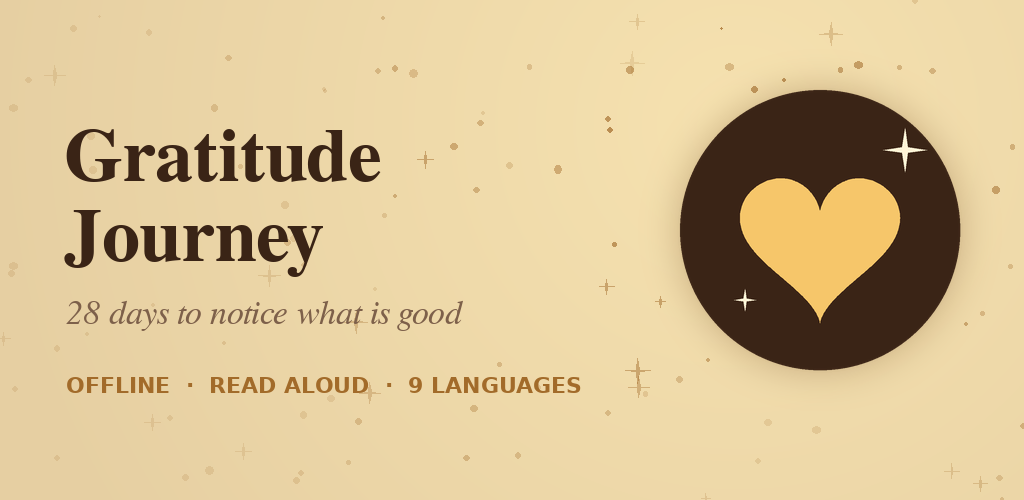
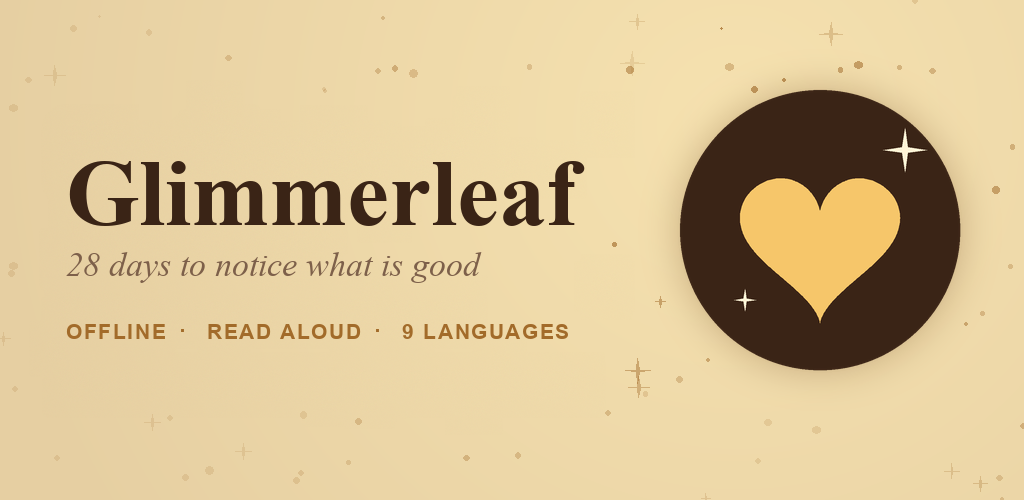
Rename app to Glimmerleaf, fix bugs found in testing, add redesign brief
Rename
- App name is now "Glimmerleaf" in all 9 languages (launcher, About, share text)
- Redraw the Play feature graphic with the new name
- Update README, PRIVACY.md and the Gradle project name
- The 28-day program keeps its name, "The 28-Day Gratitude Journey"

Bug fixes (found while testing on an Android 16 emulator)
- History: dividers stretched into a large empty box, hiding the day list
- Reminders: a slot within 30 s of a reschedule was skipped (now 5 s margin)
- Settings: changing the first reminder time now moves a pending unlock
- Contents: a resting next day showed "Today's practice"; now "Upcoming"
- Insights/History: "1 days" / "1 notes" now use singular strings
- Lint error blocked release builds: mark the pre-Android-13 back fallback
  as intended; boot receiver now checks the broadcast action

Other
- Credit link now opens https://sjpixels.com/
- Add design/chatgpt-redesign-prompt.md, the brief for the UI redesign

Changed region(s): [[0.0625, 0.24, 0.5938, 0.57], [0.0625, 0.6, 0.5625, 0.69], [0.0625, 0.75, 0.5625, 0.81]]

diff --git a/app/src/main/java/com/sjpixels/gratitude/MainActivity.kt b/app/src/main/java/com/sjpixels/gratitude/MainActivity.kt
@@ -1,5 +1,6 @@
 package com.sjpixels.gratitude
 
+import android.annotation.SuppressLint
 import android.app.Activity
 import android.app.AlertDialog
 import android.content.ActivityNotFoundException
@@ -67,7 +68,7 @@ class MainActivity : Activity() {
 
     companion object {
         const val EXTRA_OPEN_DAY = "open_day"
-        const val CREDIT_URL = "https://sj.pixels"
+        const val CREDIT_URL = "https://sjpixels.com/"
         private const val REQ_NOTIF = 11
     }
 
@@ -295,7 +296,7 @@ class MainActivity : Activity() {
                 @Suppress("DEPRECATION")
                 w.navigationBarColor = Color.TRANSPARENT
             }
-            if (Build.VERSION.SDK_INT >= 29) w.isNavigationBarContrastEnforced = false
+            w.isNavigationBarContrastEnforced = false
             val light = if (pal.dark) 0 else
                 WindowInsetsController.APPEARANCE_LIGHT_STATUS_BARS or WindowInsetsController.APPEARANCE_LIGHT_NAVIGATION_BARS
             w.insetsController?.setSystemBarsAppearance(
@@ -406,6 +407,8 @@ class MainActivity : Activity() {
         }
     }
 
+    /** Fallback for Android 12 and older. On 13+ back (including the predictive gesture) goes through OnBackInvokedCallback above. */
+    @SuppressLint("GestureBackNavigation")
     @Deprecated("Deprecated in Java")
     override fun onBackPressed() {
         if (!handleBack()) {

diff --git a/app/src/main/java/com/sjpixels/gratitude/Reminders.kt b/app/src/main/java/com/sjpixels/gratitude/Reminders.kt
@@ -40,7 +40,8 @@ object Reminders {
         if (!p.remindersOn) return null
         val st = Journey.state(ctx)
         if (st.cycle == null || st.current == null) return null
-        val notBefore = maxOf(now + 30_000L, st.unlockAt)
+        // A small margin so a reminder that just fired doesn't reschedule itself, without skipping a slot seconds away.
+        val notBefore = maxOf(now + 5_000L, st.unlockAt)
         val zone = ZoneId.systemDefault()
         val startDate = Instant.ofEpochMilli(notBefore).atZone(zone).toLocalDate()
         val sl = slots(p)
@@ -94,7 +95,16 @@ class ReminderReceiver : BroadcastReceiver() {
 }
 
 class BootReceiver : BroadcastReceiver() {
+    private val actions = setOf(
+        Intent.ACTION_BOOT_COMPLETED,
+        Intent.ACTION_MY_PACKAGE_REPLACED,
+        Intent.ACTION_TIME_CHANGED,
+        Intent.ACTION_TIMEZONE_CHANGED,
+        AlarmManager.ACTION_SCHEDULE_EXACT_ALARM_PERMISSION_STATE_CHANGED,
+    )
+
     override fun onReceive(context: Context, intent: Intent) {
+        if (intent.action !in actions) return
         Notifier.ensureChannel(context)
         Reminders.reschedule(context)
     }

diff --git a/app/src/main/java/com/sjpixels/gratitude/HistoryScreen.kt b/app/src/main/java/com/sjpixels/gratitude/HistoryScreen.kt
@@ -94,8 +94,9 @@ class HistoryScreen(act: MainActivity) : Screen(act) {
                         addView(DayBadge(act, p, day, DayStatus.DONE, 32), ui.lp(WRAP, WRAP, r = 12))
                         addView(ui.col {
                             addView(ui.text(c.t("day_n", "n" to day) + " · " + c.day(day).title, 15f, p.ink, Fonts.sansMedium))
-                            addView(ui.muted(c.t("sessions_n", "n" to daySessions.size) + "  ·  " +
-                                c.t("notes_count_n", "n" to daySessions.sumOf { it.noteCount }), 12f), ui.lp(t = 2))
+                            val notes = daySessions.sumOf { it.noteCount }
+                            val notesLabel = if (notes == 1) c.t("notes_count_1") else c.t("notes_count_n", "n" to notes)
+                            addView(ui.muted(c.t("sessions_n", "n" to daySessions.size) + "  ·  " + notesLabel, 12f), ui.lp(t = 2))
                         }, ui.lp(0, WRAP, 1f))
                         addView(ui.iconButton(Icon.TRASH, c.t("delete"), p.muted, 36, 17) {
                             act.confirm(c.t("delete_day_q", "n" to day), c.t("delete"), danger = true) {

diff --git a/app/src/main/java/com/sjpixels/gratitude/ContentsScreen.kt b/app/src/main/java/com/sjpixels/gratitude/ContentsScreen.kt
@@ -45,6 +45,7 @@ class ContentsScreen(act: MainActivity) : Screen(act) {
         page.addView(rCard, ui.lp())
 
         // weeks
+        val resting = st.isResting()
         for (w in 0 until 4) {
             page.addView(ui.eyebrow(c.t("week_n", "n" to w + 1)), ui.lp(t = 28))
             page.addView(ui.h2(c.weeks.getOrElse(w) { "" }), ui.lp(t = 4, b = 12))
@@ -63,6 +64,8 @@ class ContentsScreen(act: MainActivity) : Screen(act) {
                     }, ui.lp(0, WRAP, 1f))
                     val n = st.counts[day]
                     when {
+                        // While resting until tomorrow, the next practice isn't "today's" yet.
+                        status == DayStatus.CURRENT && resting -> addView(ui.chip(c.t("status_upcoming")), ui.lp(WRAP, WRAP, l = 6))
                         status == DayStatus.CURRENT -> addView(ui.chip(c.t("status_current"), p.accent, p.onAccent), ui.lp(WRAP, WRAP, l = 6))
                         n > 1 -> addView(ui.chip("×$n"), ui.lp(WRAP, WRAP, l = 6))
                         else -> addView(IconView(act, Icon.CHEVRON, p.muted, 18), ui.lp(ui.dp(18), ui.dp(18), l = 6))

diff --git a/app/src/main/java/com/sjpixels/gratitude/Kit.kt b/app/src/main/java/com/sjpixels/gratitude/Kit.kt
@@ -179,9 +179,17 @@ class Ui(val ctx: Context, val p: Pal, val c: ContentPack) {
 
     fun space(h: Int): View = View(ctx).apply { layoutParams = LinearLayout.LayoutParams(1, dp(h)) }
 
-    fun divider(): View = View(ctx).apply {
-        setBackgroundColor(p.line)
-        layoutParams = LinearLayout.LayoutParams(MATCH, maxOf(1, dp(1) / 2 + 1))
+    /** A hairline. Its height is fixed in onMeasure, so callers can pass any LayoutParams (e.g. lp(t = 12)) for margins. */
+    fun divider(): View {
+        val h = maxOf(1, dp(1) / 2 + 1)
+        return object : View(ctx) {
+            override fun onMeasure(widthMeasureSpec: Int, heightMeasureSpec: Int) {
+                setMeasuredDimension(getDefaultSize(suggestedMinimumWidth, widthMeasureSpec), h)
+            }
+        }.apply {
+            setBackgroundColor(p.line)
+            layoutParams = LinearLayout.LayoutParams(MATCH, h)
+        }
     }
 
     fun scroll(content: View): ScrollView = ScrollView(ctx).apply {

diff --git a/app/src/main/java/com/sjpixels/gratitude/InsightsScreen.kt b/app/src/main/java/com/sjpixels/gratitude/InsightsScreen.kt
@@ -80,8 +80,8 @@ class InsightsScreen(act: MainActivity) : Screen(act) {
         // ---------------------------------------------------------- all time tiles
         page.addView(ui.sectionTitle(c.t("all_time")))
         val tiles = listOf(
-            Triple(Icon.SPARK, c.t("current_streak"), "$cur ${c.t("days_short")}"),
-            Triple(Icon.HEART, c.t("best_streak"), "$best ${c.t("days_short")}"),
+            Triple(Icon.SPARK, c.t("current_streak"), "$cur ${c.t(if (cur == 1) "day_short" else "days_short")}"),
+            Triple(Icon.HEART, c.t("best_streak"), "$best ${c.t(if (best == 1) "day_short" else "days_short")}"),
             Triple(Icon.CHECK, c.t("total_sessions"), all.size.toString()),
             Triple(Icon.BOOK, c.t("notes_written"), all.sumOf { it.noteCount }.toString()),
         )

diff --git a/app/src/main/java/com/sjpixels/gratitude/Journey.kt b/app/src/main/java/com/sjpixels/gratitude/Journey.kt
@@ -114,5 +114,14 @@ object Journey {
             .atZone(ZoneId.systemDefault()).toInstant().toEpochMilli()
     }
 
+    /** Moves a pending unlock to the new first-reminder time on the same date, after the user changes that time. */
+    fun realignUnlock(prefs: Prefs) {
+        val at = prefs.unlockAt
+        if (at <= System.currentTimeMillis()) return
+        val m = prefs.reminderStartMin
+        prefs.unlockAt = localDate(at).atTime(m / 60, m % 60)
+            .atZone(ZoneId.systemDefault()).toInstant().toEpochMilli()
+    }
+
     fun localDate(ms: Long): LocalDate = Instant.ofEpochMilli(ms).atZone(ZoneId.systemDefault()).toLocalDate()
 }

diff --git a/app/src/main/java/com/sjpixels/gratitude/SettingsScreen.kt b/app/src/main/java/com/sjpixels/gratitude/SettingsScreen.kt
@@ -137,6 +137,7 @@ class SettingsScreen(act: MainActivity) : Screen(act) {
                 pickTime(prefs.reminderStartMin) { m ->
                     prefs.reminderStartMin = m
                     if (prefs.reminderEndMin < m) prefs.reminderEndMin = m
+                    Journey.realignUnlock(prefs)
                 }
             })
             rem.addView(valueRow(ui, c.t("reminder_end"), ui.minutesLabel(prefs.reminderEndMin), null) {

diff --git a/design/chatgpt-redesign-prompt.md b/design/chatgpt-redesign-prompt.md
@@ -1,0 +1,98 @@
+You are a senior mobile product designer and brand designer. Redesign the complete UI of an Android app I am publishing on Google Play and build its UI kit and brand assets. I have attached two reference images: the new logo and an example promotional image. Work through the numbered deliverables at the end, in order.
+
+THE APP
+- Name: Glimmerleaf. Tagline: "28 days to notice what is good". Marketing headline (from the attached example): "What did you notice today?"
+- What it does: a fully offline 28-day gratitude practice called "The 28-Day Gratitude Journey". Each day has one practice: a one-paragraph intro, exactly 4 steps and an affirmation. There is also a morning ritual ("Morning: Five Thanks") and an evening ritual ("Evening: The Golden Moment"). Users can have any practice read aloud by the phone's own offline voice, write in a guided journal and pick a mood. Reminders arrive every 3 hours from 9:00 to 21:00 until the day's practice is done. Users can see their history and analytics. There are no accounts, no internet and no ads.
+- Journey rules the design must show clearly: days run in order; after finishing a day, the next one "rests" until the next morning (the user can still open it early); any day can be repeated; after all 28 the journey is archived and a new one can start; the journey can be reset.
+- Platform: native Android phones (Android 8 to 16), portrait, edge-to-edge (the app draws behind the status and navigation bars). Design at 360×800dp and check it still works at 320dp wide and with the system font size at 200%.
+- Languages: English, Hindi, German, Spanish, Japanese, Russian, French, Chinese and Korean. None are right-to-left. Layouts must handle long German and Russian text and Devanagari, Chinese, Japanese and Korean scripts without clipping. Test with these real titles:
+  - Longest English day title: "The People Who Keep Life Running"
+  - Longest German day title: "Die Menschen, die das Leben am Laufen halten"
+  - A Russian button label that wraps: "Открыть практику"
+- Credit: every screen shows "Created with Love by sj.pixels" in small, readable text at the top centre. "sj.pixels" is a link to https://sjpixels.com/.
+
+BRAND: USE THE ATTACHED LOGO
+- Logo (attached): a golden open book with a single leaf sprouting from its spine and two small four-point sparkles, on a deep brown rounded square, with a "Glimmerleaf" serif wordmark. Keep this concept and its colours. Refine it, don't replace it: clean up the curves, balance the sparkles and make the leaf readable at 24dp.
+- Brand colours sampled from the logo: deep brown #321209, golden page #FEC74E, page edge #EAA114, leaf #FEC13A, cream #FDF4E5. The attached example uses a dark brown button #441E0D, a gold chip #F8CD6D, a parchment screen #F5E2CA and ink #2F140A.
+- Visual direction from the attached example: warm morning light, parchment, sepia ink, an elegant high-contrast serif for headings, a clean sans-serif for body text, a dark-brown pill primary button, a soft gold chip for the day label, and small single-colour line illustrations (like the coffee cup) that sit inside the app. The sunlit photography (cup, window, flowers) is for marketing images only, never inside the app.
+- Mood: calm, warm and a little magical, like a beautiful personal journal rather than a productivity tool. Use generous spacing, rounded cards, hairline borders or gentle shadows, and tiny scattered sparkles.
+- All artwork must be original. Do not imitate any existing book cover, book title, author's branding or company logo. Do not show real people.
+
+HOW THE APP IS BUILT (design within these limits)
+- Native Android Views written in Kotlin. There is no Jetpack Compose, no Material Components library and no third-party libraries. Every component is drawn in code. Gradients, glows, sparkles, the progress ring, charts and confetti are drawn on a Canvas, and icons are vector paths. So:
+  - Specify every effect numerically (gradient stops and angles, glow radius and opacity, shadow elevation in dp, corner radius in dp, sparkle count and size range), not as "a soft glow".
+  - Keep animations simple and specify them: duration in ms, easing and what changes (alpha, scale, translation).
+  - No blur-behind/frosted glass, no video and no Lottie files.
+- Fonts: the app currently uses the system serif and sans-serif. You may pick ONE free, open-licence serif family from Google Fonts to bundle for headings (name it and the weights). Keep the system sans-serif for body text. Bundled Latin fonts don't cover Devanagari, Chinese, Japanese or Korean, so the app falls back to the system Noto fonts for those. Say how headings should look in those scripts (size and weight adjustments) so the design still holds.
+- Give all sizes in dp on a 4dp grid and all text sizes in sp, with line height. Touch targets must be at least 48dp. Text must meet WCAG AA contrast (4.5:1 body, 3:1 large text and icons) in day and night for every theme. List the contrast ratio of ink, muted and on-accent for each theme.
+- Icons: simple line icons, 2px stroke, round caps and joins, on a 24dp grid with 2dp padding. The set: home, book, history, chart, gear, play, pause, stop, previous, next, back, chevron-right, chevron-down, bell, sun, moon, heart, sparkle, share, trash, check, lock, speaker. Deliver each as SVG code using only <path> elements with stroke (no fills, masks, filters or text), so I can convert them to Android VectorDrawables.
+- In-app illustrations: single-colour line art in the same style as the coffee cup in the example, tinted with a theme colour, delivered as SVG code using stroke paths only. Keep the set small: one per week (Noticing, Connection, Body/Home/World, Transformation), one for each ritual (sunrise, golden evening), and the empty states (no journey yet, no history, no insights). That's 9 illustrations, not 28.
+- Mood picker: 5 emoji, 😔 😐 🙂 😊 🤩. Design the selected and unselected states around the emoji; don't replace them with custom faces.
+
+7 COLOUR THEMES (each with a day and a night version)
+Keep each hue but refine freely. Golden Parchment is the default and must match the new logo's browns and golds.
+1. Golden Parchment (default): day #F4E9D0 / #A26B2A; night #1A120D / #E6B866. Move toward the logo: deep brown #321209 for the primary button and ink, gold #FEC74E for chips and glow.
+2. Wax Seal: day #F6EADF / #9B2B2C; night #1B0F10 / #E9857A
+3. Amber Glow: day #F8EBD7 / #BF5E17; night #1C1209 / #F4A757
+4. Rose Quartz: day #F7EAE7 / #A44B68; night #1B1215 / #E99CB3
+5. Twilight Violet: day #F1EBF3 / #6B4A9C; night #15111C / #BBA2EA
+6. Sapphire Dusk: day #EBF0F4 / #2D5D8D; night #0E141B / #8FBAEA
+7. Emerald Sage: day #EDF1E7 / #3D7250; night #0F160F / #90CC9C
+For every theme in both modes, give exactly these tokens (they match the code): bg, bg2 (background gradient end), surface (cards), surfaceAlt (inputs, inner panels), ink (main text), muted (secondary text), accent, onAccent (text on accent), accentSoft (selected pill, soft fills), line (hairline borders), glow (sparkles and highlights) and danger. If the new style needs more (for example a separate "primary button" colour, as in the example, where it's dark brown rather than the accent), add them as clearly named extra tokens and explain where they're used.
+
+GLOBAL LAYOUT
+- Top bar, 56dp tall, drawn below the status bar. Left: a back arrow on inner pages, or the small logo mark on the main tabs. Centre: the credit line. Right: a day/night toggle, an animated pill switch (about 56×32dp) whose knob shows a sun or a moon.
+- Bottom navigation with 5 tabs: Today, Contents, History, Insights, Settings. Each has an icon and a label, and the selected tab has a soft pill behind the icon. It sits above the system navigation bar and hides while the keyboard is open. Labels must fit "Einstellungen" (German) and "Статистика" (Russian) at 11sp.
+- Pages scroll vertically, with 20dp side margins and 28dp bottom padding.
+
+SCREENS (design every state listed; use these real strings)
+1. Today
+   a. Not started: date line ("Friday, November 20, 2026") and greeting (Good morning / Good afternoon / Good evening). A hero card: eyebrow "THE 28-DAY GRATITUDE JOURNEY", title "Begin your 28-day gratitude journey", body "One short practice a day. Gentle reminders every few hours until it is done. Your notes never leave this phone." Buttons: "Start the journey" (primary) and "Browse the practices" (ghost).
+   b. In progress (the hero state in the attached example): eyebrow "DAY 3 OF 28 · NOTICING", title "Small Wins", theme line "Celebrate what went right.", the week's line illustration, a progress bar labelled "2 of 28 complete", and "Open practice" (primary) and "Listen" (secondary) buttons. Below it: a bell icon with "Next reminder today at 12:00 PM"; a "Week 1 · Noticing" strip of 7 day badges (done = filled with a tick, current = glowing ring, upcoming = outline); and "Daily rituals" with two cards, Morning: Five Thanks ("Every morning") and Evening: The Golden Moment ("Every night").
+   c. Resting (today's practice is done): "Today's practice is complete", "Day 4 unlocks tomorrow at 9:00 AM", a preview of Day 4's title and a "Begin it now" button.
+   d. Journey complete: a celebratory card with "You have completed the whole 28-day journey!" and a "Start a new journey" button.
+2. Contents: the title "The 28-Day Gratitude Journey", the subtitle "Four weeks of small daily practices that train your heart to notice what is good.", an overall progress bar ("1 done · 27 left"), a "Daily rituals" card with 2 rows, then Weeks 1 to 4 (Noticing; Connection; Body, Home & World; Transformation) with 7 rows each. Each row has a day badge, the title, a one-line theme and an optional chip: "Today's practice" (accent), "Upcoming" (soft, when the next day is resting) or "×2" for a repeated practice.
+3. Practice page (the most important screen):
+   - Eyebrow "DAY 3 OF 28 · NOTICING", a large serif title, an italic theme line and a status chip: "✓ Completed ×2", "Today's practice", "Upcoming" or "Day 4 unlocks tomorrow at 9:00 AM".
+   - An optional banner for days ahead of schedule: "This practice is ahead of your schedule. You can still do it now; your journey keeps its order."
+   - A Listen card: a 56dp round play/pause button, previous / stop / next controls, a status line such as "English · Female", and a "Reading aloud…" state. The paragraph being read gets a soft glow highlight, and the page scrolls to keep it in view.
+   - The intro paragraph, then "The practice" with 4 numbered step cards, then "Carry this with you": the affirmation in a glowing quote card with a large opening quote mark.
+   - "Your journal" with a small "Draft saved" label. The number of journal sections changes from day to day, so design the pattern rather than one fixed layout: each day has 1 or 2 prompts, each with 1, 3, 5 or 7 numbered single-line inputs or a single multi-line box, and the morning list "This morning's five thanks" (5 numbered lines) is always added at the end. Show Day 3: "Small wins and who or what helped" (5 lines) plus the five thanks. Then a multi-line Reflection box (hint "What did you notice? How do you feel?"), the mood picker ("How do you feel now?") and a full-width "Complete practice" button, which reads "Save another session" if the day is already done.
+   - "Your entries for this practice": cards showing date and time, the mood emoji, the notes grouped by prompt, and a delete icon. Also design the empty state ("No entries yet").
+4. Ritual page (Morning or Evening): title, when to do it, the ritual text, its line illustration and a Listen card.
+5. History: one card per journey, newest first: "Journey 2" with a status chip ("In progress", "Completed" or "Reset"), "Started Nov 20, 2026 · Ended Dec 18, 2026", a progress bar, "12 done · 16 left", "Sessions: 15", and share and delete icons. Show it collapsed and expanded. Expanded shows one row per completed day (badge, "Day 1 · Arrive Where You Are", "Sessions: 1 · 3 notes", delete and expand), and an expanded day shows its entry cards. Include the empty state.
+6. Insights:
+   - A "This journey · Journey 1" card with an animated progress ring (12 / 28, "43%"), stats (Sessions, Notes written) and a "Sessions per practice" bar chart with 28 thin bars and axis labels 1, 7, 14, 21, 28. The current day's bar is highlighted.
+   - "All time" tiles in a 2×2 grid: current streak, best streak ("1 day" / "12 days"), sessions and notes written; plus journeys completed.
+   - A 12-week activity grid (like a contribution heatmap) and a "Mood after practice" line chart.
+   - An empty state.
+7. Settings:
+   - Appearance: a theme picker (7 round swatches in rows of 4 and 3, with names; the selected one has a ring) and a "Night mode" switch.
+   - Language: a row showing the current language, which opens a picker listing the 9 languages in their own scripts (English, हिन्दी, Deutsch, Español, 日本語, Русский, Français, 中文, 한국어).
+   - Reading voice: a Female / Male segmented control, a "Specific voice" row, a reading speed slider (0.50× to 1.50×, value shown), and "Test voice" and "Install or manage voices" buttons.
+   - Reminders: an on/off switch, "First reminder" 9:00 AM and "Last reminder" 9:00 PM rows, "Repeat every" 1 h / 2 h / 3 h / 4 h / 6 h (segmented control), an "Exact reminder times" row showing "Not allowed. Tap to allow" or "Allowed", and "Next practice unlocks": "Next morning" / "Right after completing" (segmented control).
+   - Journey: an explanation and a "Reset journey" button in the danger style.
+   - About: "Glimmerleaf", the version ("Version 1.0.0"), a one-line note and the credit line with a heart icon.
+8. Celebration overlay after completing a practice: a dimmed background, a confetti burst (in theme colours), and a card with a big word (one of "Hooray!", "Yippee!", "Congratulations!", "Wonderful!", "Well done!"), "You completed Day 3: Small Wins", the day's affirmation in italics and a "Continue" button. Also design a bigger variant for finishing all 28 days.
+9. Dialogs and system UI: confirm delete, reset journey (danger), choose language, choose voice (a list with radio buttons that plays a preview when tapped), the time picker styling, a toast, and the reminder notification (title "Day 3 · Small Wins", text "Your gratitude practice is waiting. A few minutes is all it takes.", using the monochrome notification icon tinted with the accent).
+
+BRAND ASSETS (Google Play's exact requirements)
+A. Logo: a vector redraw of the attached logo as SVG code. Provide the symbol alone, a horizontal lockup (symbol left, wordmark right, as in the example) and a stacked lockup (symbol above the wordmark, as in the attached logo), each for light and dark backgrounds. Name the wordmark font, or draw it as paths.
+B. App icon (Android adaptive icon): a 108×108dp canvas as two separate layers. The background layer is a full-bleed deep brown (#321209, optionally with a subtle radial glow), with no rounded square drawn in. The foreground layer is the book, leaf and sparkles only, on a transparent background, with all key artwork inside the central 66dp circle so no launcher mask crops it. Also a single-colour monochrome foreground for Android 13+ themed icons. Deliver all three as SVG code on a 108×108 viewBox. Separately, a 512×512 Play Store icon: 32-bit PNG, full square, no rounded corners or drop shadow baked in (Play applies its own mask), under 1 MB.
+C. Notification icon: a solid white silhouette of the book and leaf on a transparent background, 24×24dp, legible at that size. SVG code.
+D. Feature graphic: exactly 1024×500, JPEG or 24-bit PNG with no transparency. Show the logo, "Glimmerleaf", "28 days to notice what is good" and "Offline · Read aloud · 9 languages". Keep all text and the logo inside the central safe area, at least 64px from every edge, because Play can crop and overlay a play button.
+E. Promo posters in the style of the attached example: 1080×1920 portrait (social media and WhatsApp status) and 1080×1080 square.
+F. Play Store phone screenshots: 6 images at 1080×1920. Don't use 1080×2400: Play rejects screenshots whose long side is more than twice the short side. Each shows one real screen in a phone frame with a short headline above it: "One gentle practice a day", "Listen in your language", "Write what you're grateful for", "Reminders until it's done", "See your progress", "7 themes, day and night".
+
+RULES FOR GENERATED IMAGES
+- Image generators often misspell text. Use the exact strings given here, keep on-image text short, and check the spelling of "Glimmerleaf" in every image.
+- Mockups must show only features that exist in this brief. Don't invent extra tabs, sign-in, social sharing feeds, subscriptions or cloud sync. If you think a feature would help, list it separately under "Optional ideas" rather than putting it in the mockups.
+- Use one consistent phone frame and the same status bar (time 9:41, wifi, signal, battery) in every mockup.
+
+DELIVER IN THIS ORDER
+1. A short design rationale covering mood, typography, colour and how the new logo shapes the UI.
+2. Design tokens: colours for all 7 themes in day and night (as a table with contrast ratios, and as JSON using exactly the token names above, colours as #RRGGBB), the type scale (name, font, weight, sp, line height, letter spacing), spacing, corner radii, borders, elevation, glow and gradient recipes, motion (durations and easing), and the icon spec.
+3. Component specs, each with size, padding, colours (by token name) and states (default, pressed, selected, disabled, and focused where relevant): buttons (primary, secondary, ghost, danger, with and without icon), cards, the hero card with glow and sparkles, chips, day badges (done, current, upcoming, resting), text inputs (single and multi-line, with number gutter), segmented control, switch, slider, bottom nav, top bar, day/night toggle, progress bar, progress ring, bar chart, heatmap, line chart, mood picker, Listen card (idle, loading, reading, paused), step card, quote card, entry card, dialogs and toasts.
+4. Screen-by-screen layout specs for every screen and state above, top to bottom, with dp sizes and token names. Use Golden Parchment in day mode, and add notes for night mode and for long German/Russian text.
+5. SVG code: the icon set, the 9 illustrations, the logo lockups, the adaptive icon layers (background, foreground, monochrome) and the notification icon.
+6. Images: the logo, the 512px icon, the feature graphic and the posters, then high-fidelity mockups of each screen and state, then the 6 store screenshots. Generate one image at a time and wait for me to say "next" before making the next one.

diff --git a/README.md b/README.md
@@ -1,8 +1,8 @@
 <div align="center">
 
-<img src="store/play_icon_512.png" alt="Gratitude Journey icon" width="120" height="120" />
+<img src="store/play_icon_512.png" alt="Glimmerleaf icon" width="120" height="120" />
 
-# Gratitude Journey
+# Glimmerleaf
 
 **A 28-day gratitude practice for Android that works fully offline.**<br/>
 Four weeks of small daily practices that train your heart to notice what is good.
@@ -15,7 +15,7 @@ Four weeks of small daily practices that train your heart to notice what is good
 [![Offline](https://img.shields.io/badge/works-100%25%20offline-orange)](#-privacy)
 [![License: GPL v3](https://img.shields.io/badge/license-GPLv3-blue.svg)](LICENSE)
 
-<img src="store/play_feature_1024x500.png" alt="Gratitude Journey feature graphic" width="100%" />
+<img src="store/play_feature_1024x500.png" alt="Glimmerleaf feature graphic" width="100%" />
 
 </div>
 
@@ -213,7 +213,7 @@ GratitudeJourney/
 
 ## ✅ Before release
 
-- [ ] Replace `CREDIT_URL` in `MainActivity.kt`. It's currently `https://sj.pixels`, which isn't a reachable address because there's no `.pixels` domain.
+- [x] `CREDIT_URL` in `MainActivity.kt` points to https://sjpixels.com/
 - [ ] Increase `versionCode` (and `versionName`) in `app/build.gradle.kts` for every upload.
 - [ ] Take 2–8 phone screenshots for the store listing.
 - [ ] Host `PRIVACY.md` at a public URL for Play Console.

diff --git a/PRIVACY.md b/PRIVACY.md
@@ -1,8 +1,8 @@
-# Privacy Policy: Gratitude Journey
+# Privacy Policy: Glimmerleaf
 
 _Last updated: November 2026_
 
-Gratitude Journey ("the app") is made by sj.pixels.
+Glimmerleaf ("the app") is made by sj.pixels.
 
 **We collect no personal data.** The app works entirely offline. Everything you enter (journal notes, mood, progress, history and settings) is stored only on your device. It is never sent to us or to anyone else.
 
@@ -13,4 +13,4 @@ Gratitude Journey ("the app") is made by sj.pixels.
 - **Backups:** if Android's own device backup is turned on, your app data may be included in your personal Google backup. This is controlled by your device settings.
 - **Deleting data:** delete individual journeys, days or entries in History, or uninstall the app to remove everything.
 
-Contact: sj.pixels
+Contact: sj.pixels · https://sjpixels.com/
